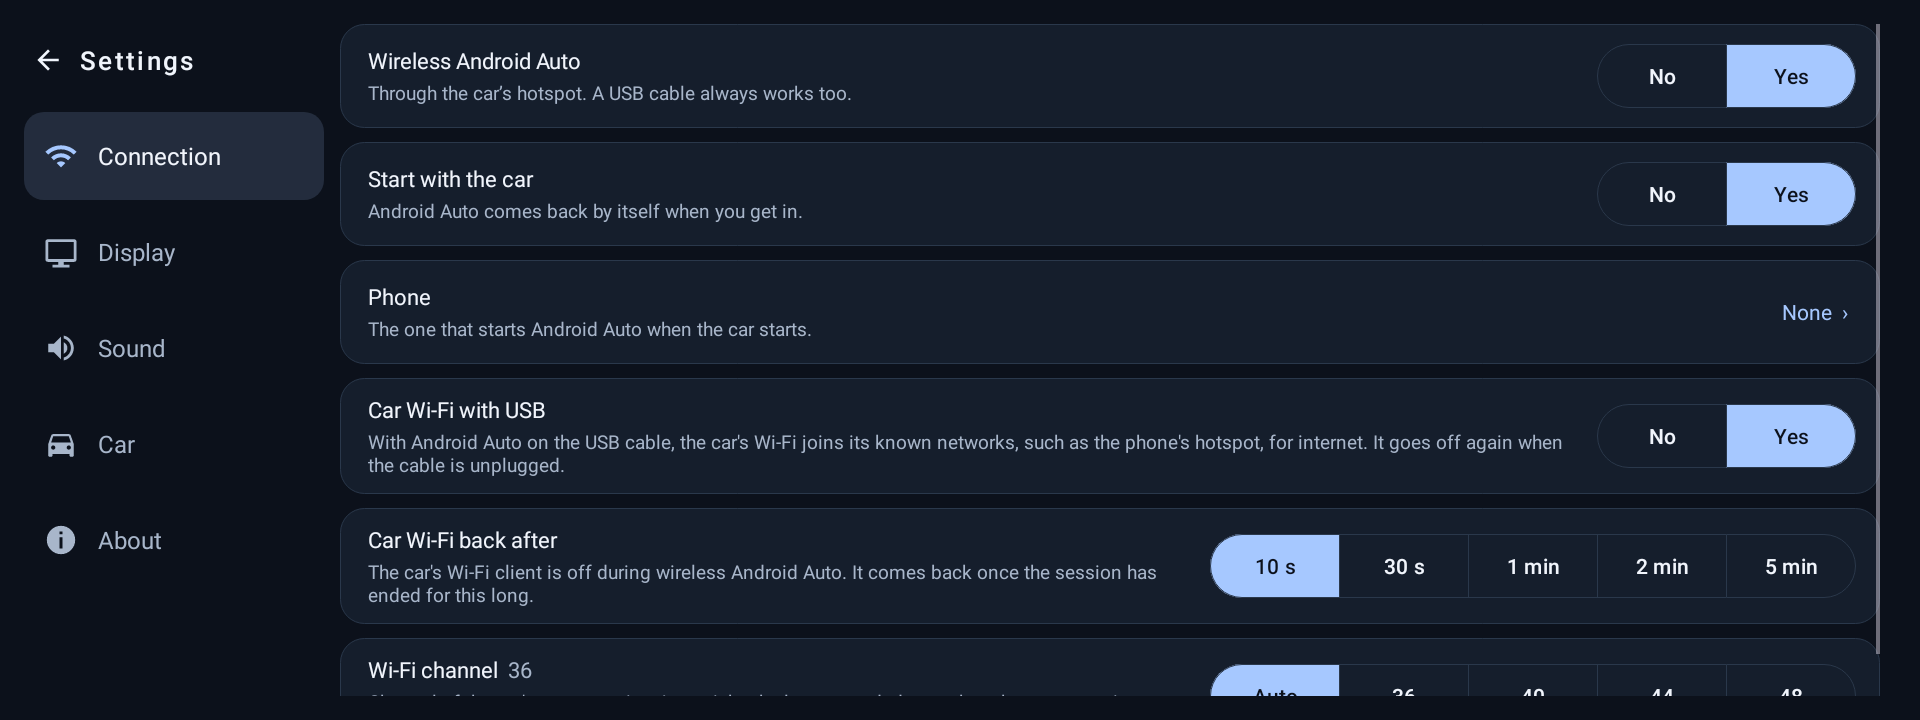
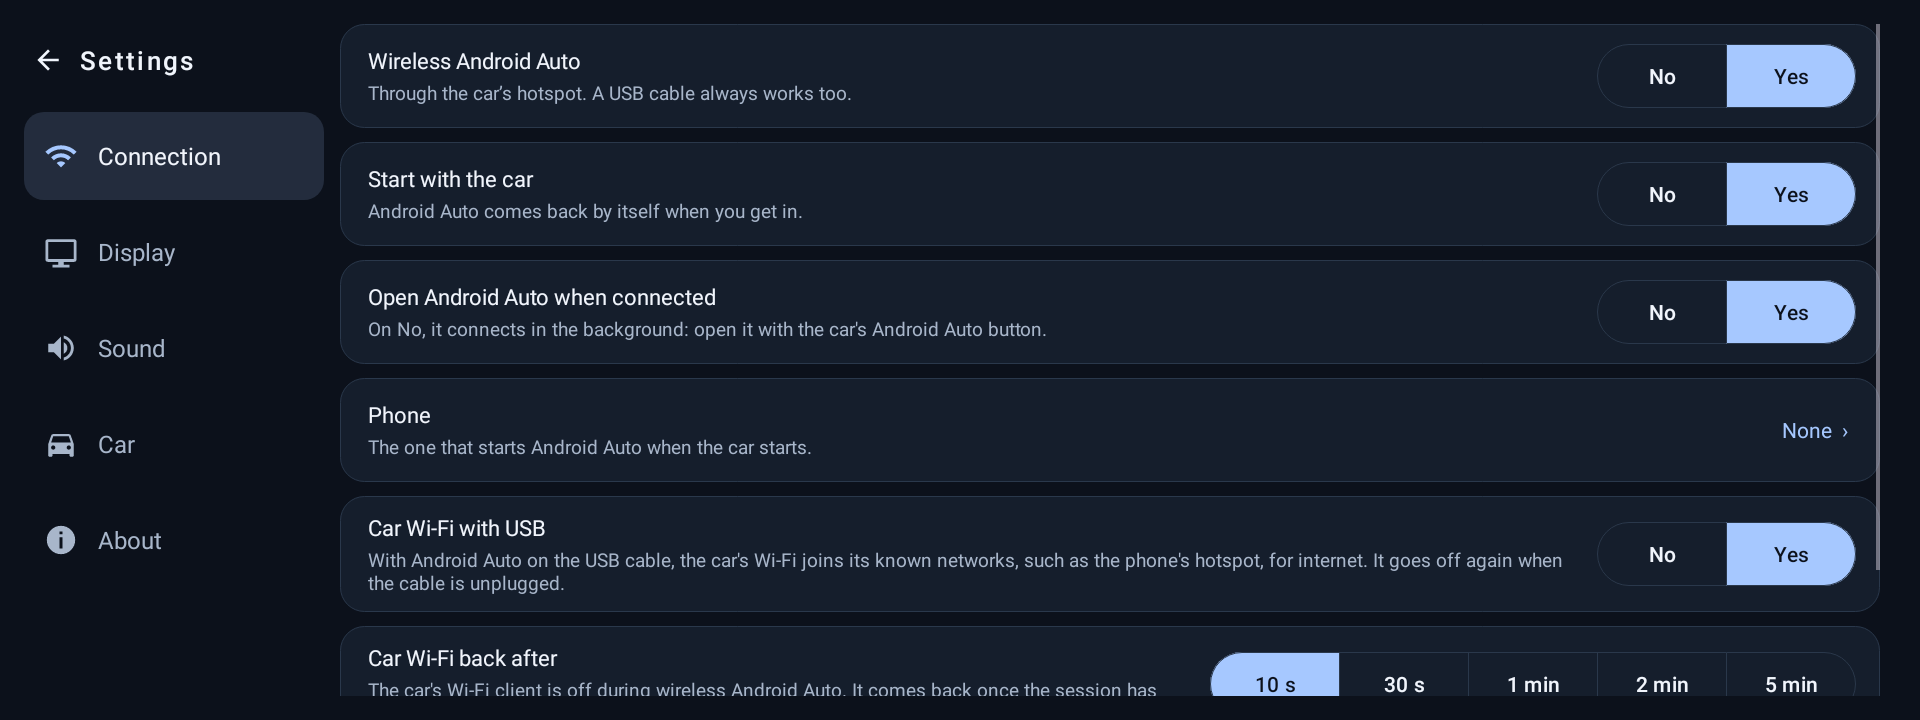
DiAuto MG4+ 2.2.2-beta7: Android Auto can connect in the background

diff --git a/app/src/main/java/com/andrerinas/openheadunit/aap/AapService.kt b/app/src/main/java/com/andrerinas/openheadunit/aap/AapService.kt
@@ -836,7 +836,19 @@ class AapService : Service(), UsbReceiver.Listener {
                     }
                     is CommManager.ConnectionState.HandshakeComplete -> {
                         automaticReconnectAttempts = 0
-                        launchAapProjectionActivity()
+                        val open = ProjectionOpenPolicy.shouldOpen(
+                            settings.openProjectionOnConnect,
+                            AapProjectionActivity.isForeground,
+                            com.andrerinas.openheadunit.main.MainActivity.inFront,
+                        )
+                        if (open) {
+                            launchAapProjectionActivity()
+                        } else {
+                            // The projection normally starts reading once its surface is ready. Without
+                            // it the phone gives up after a few seconds, so the session starts here.
+                            AppLog.i("AapService: connected in the background, the screen stays with the car")
+                            serviceScope.launch { commManager.startReading() }
+                        }
                     }
                     is CommManager.ConnectionState.TransportStarted -> {
                         hasEverConnected = true

diff --git a/app/src/main/java/com/andrerinas/openheadunit/main/MainActivity.kt b/app/src/main/java/com/andrerinas/openheadunit/main/MainActivity.kt
@@ -900,6 +900,7 @@ class MainActivity : BaseActivity() {
         ContextCompat.registerReceiver(this, orientationReceiver, android.content.IntentFilter(AapService.ACTION_ORIENTATION_CHANGED), ContextCompat.RECEIVER_NOT_EXPORTED)
         isOrientationReceiverRegistered = true
 
+        inFront = true
         // If an Android Auto session is active, bring the projection activity to front
         if (App.provide(this).commManager.isConnected && !App.isPiPActive && !AapProjectionActivity.isForeground) {
             AppLog.i("MainActivity: Active session detected, bringing projection to front")
@@ -925,6 +926,7 @@ class MainActivity : BaseActivity() {
 
     override fun onPause() {
         super.onPause()
+        inFront = false
         if (isOrientationReceiverRegistered) {
             unregisterReceiver(orientationReceiver)
             isOrientationReceiverRegistered = false
@@ -977,6 +979,9 @@ class MainActivity : BaseActivity() {
     }
 
     companion object {
+        /** DiAuto's own home screen is in front. */
+        @Volatile var inFront = false
+
         private const val permissionRequestCode = 97
         const val EXTRA_LAUNCH_SOURCE = "launch_source"
 

diff --git a/app/src/test/java/com/andrerinas/openheadunit/aap/ProjectionOpenPolicyTest.kt b/app/src/test/java/com/andrerinas/openheadunit/aap/ProjectionOpenPolicyTest.kt
@@ -1,0 +1,24 @@
+package com.andrerinas.openheadunit.aap
+
+import org.junit.Assert.assertFalse
+import org.junit.Assert.assertTrue
+import org.junit.Test
+
+class ProjectionOpenPolicyTest {
+
+    @Test
+    fun `the setting on always opens`() =
+        assertTrue(ProjectionOpenPolicy.shouldOpen(settingOn = true, projectionInFront = false, homeInFront = false))
+
+    @Test
+    fun `the setting off stays in the background`() =
+        assertFalse(ProjectionOpenPolicy.shouldOpen(settingOn = false, projectionInFront = false, homeInFront = false))
+
+    @Test
+    fun `a reconnect with Android Auto on screen stays there`() =
+        assertTrue(ProjectionOpenPolicy.shouldOpen(settingOn = false, projectionInFront = true, homeInFront = false))
+
+    @Test
+    fun `the driver waiting on DiAuto's home screen sees it open`() =
+        assertTrue(ProjectionOpenPolicy.shouldOpen(settingOn = false, projectionInFront = false, homeInFront = true))
+}

diff --git a/app/src/main/java/com/andrerinas/openheadunit/aap/AapControl.kt b/app/src/main/java/com/andrerinas/openheadunit/aap/AapControl.kt
@@ -104,7 +104,14 @@ internal class AapControlMedia(
             // below only lands when its surface happens to appear after TransportStarted.
             aapTransport.send(VideoFocusEvent(gain = true, unsolicited = true))
             AppLog.i("Video focus granted after video sink setup")
-            aapTransport.gainVideoFocus()
+            // This asks for the projection on screen, which a background session does not want.
+            if (ProjectionOpenPolicy.shouldOpen(
+                    aapTransport.settings.openProjectionOnConnect,
+                    AapProjectionActivity.isForeground,
+                    com.andrerinas.openheadunit.main.MainActivity.inFront,
+                )) {
+                aapTransport.gainVideoFocus()
+            }
         }
 
         // Pushing AudioFocusNotification

diff --git a/app/src/main/java/com/andrerinas/openheadunit/main/DaSettingsActivity.kt b/app/src/main/java/com/andrerinas/openheadunit/main/DaSettingsActivity.kt
@@ -134,6 +134,9 @@ class DaSettingsActivity : BaseActivity() {
         row(R.string.dset_start_with_car, R.string.dset_start_with_car_summary, yesNo(settings.autoStartOnBoot) {
             settings.autoStartOnBoot = it
         })
+        row(R.string.dset_open_on_connect, R.string.dset_open_on_connect_summary, yesNo(settings.openProjectionOnConnect) {
+            settings.openProjectionOnConnect = it
+        })
         val phone = settings.autoStartBluetoothDeviceName.ifBlank { getString(R.string.dset_phone_none) }
         row(R.string.dset_phone, R.string.dset_phone_summary, value(phone) { pickPhone() })
         row(R.string.dset_usb_wifi, R.string.dset_usb_wifi_summary, yesNo(settings.usbWifiClient) {

diff --git a/app/src/main/java/com/andrerinas/openheadunit/utils/Settings.kt b/app/src/main/java/com/andrerinas/openheadunit/utils/Settings.kt
@@ -874,6 +874,11 @@ class Settings(private val context: Context) {
         get() = prefs.getBoolean("auto-start-on-usb", false)
         set(value) { prefs.edit().putBoolean("auto-start-on-usb", value).apply() }
 
+    /** Android Auto takes the screen when the phone connects; otherwise the car's Android Auto button opens it. */
+    var openProjectionOnConnect: Boolean
+        get() = prefs.getBoolean("open-projection-on-connect", true)
+        set(value) { prefs.edit().putBoolean("open-projection-on-connect", value).apply() }
+
     var autoStartOnBoot: Boolean
         get() = prefs.getBoolean("auto-start-on-boot", true)
         set(value) { prefs.edit().putBoolean("auto-start-on-boot", value).apply() }

diff --git a/app/src/main/java/com/andrerinas/openheadunit/aap/ProjectionOpenPolicy.kt b/app/src/main/java/com/andrerinas/openheadunit/aap/ProjectionOpenPolicy.kt
@@ -1,0 +1,11 @@
+package com.andrerinas.openheadunit.aap
+
+/**
+ * Whether Android Auto takes the screen once the phone has connected. With the setting off it stays
+ * in the background, unless the driver is already looking at it (a reconnect behind its overlay) or
+ * at DiAuto's home screen.
+ */
+object ProjectionOpenPolicy {
+    fun shouldOpen(settingOn: Boolean, projectionInFront: Boolean, homeInFront: Boolean): Boolean =
+        settingOn || projectionInFront || homeInFront
+}

diff --git a/README.md b/README.md
@@ -28,7 +28,9 @@ can plan your charging stops.
 ### Android Auto, wireless and automatic
 - Once your phone is paired with the car over Bluetooth, it joins the car's own Wi-Fi hotspot and
   Android Auto starts by itself every trip. A USB cable works too: a phone already plugged in when
-  the car starts connects over USB, ahead of wireless.
+  the car starts connects over USB, ahead of wireless. *Open Android Auto when connected* in
+  *Settings → Connection* can keep it in the background until you open it with the car's Android
+  Auto button.
 - The car has a single Wi-Fi radio. When your phone connects over Bluetooth, DiAuto switches the
   car's own Wi-Fi client off and restarts the hotspot, so Android Auto gets the whole radio (smooth
   picture and sound). The client comes back once no phone is linked (after 10 s by default, 10 s to

diff --git a/CHANGELOG.md b/CHANGELOG.md
@@ -1,3 +1,7 @@
+# DiAuto MG4+ 2.2.2-beta7
+
+- New setting *Open Android Auto when connected* in *Settings → Connection*, Yes by default. On No, Android Auto connects in the background, over wireless or USB, and opens with the car's Android Auto button.
+
 # DiAuto MG4+ 2.2.2-beta6
 
 - Steering wheel: play/pause, next and previous stay with the source playing (radio, Bluetooth, USB), even with Android Auto connected alongside it.
